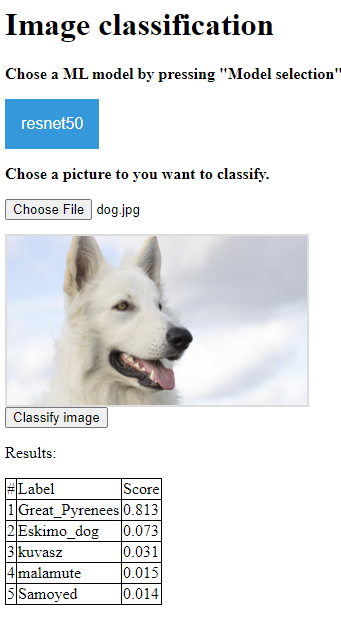
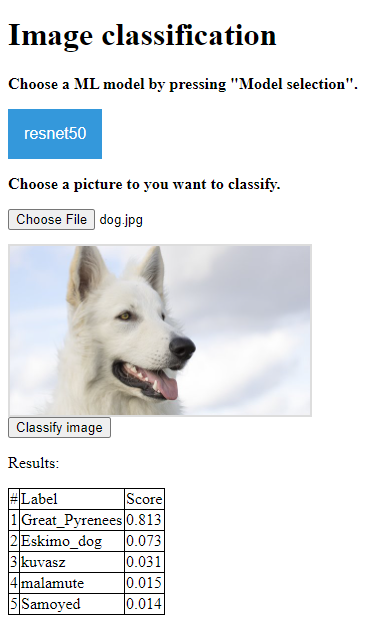
some typo

Changed region(s): [[0.0, 0.0, 1.0, 0.9854], [0.5865, 0.4003, 0.6158, 0.4311]]

diff --git a/src/frontend/index.html b/src/frontend/index.html
@@ -93,7 +93,7 @@
 </head>
 <body>
     <h1>Image classification</h1>
-    <p><b>Chose a ML model by pressing "Model selection".</b></p>
+    <p><b>Choose a ML model by pressing "Model selection".</b></p>
 
     <!-- Model selection -->
     <div class="model_selection_dropdown">
@@ -103,7 +103,7 @@
     </div>
 
     <div class="image_upload_and_preview" id="imageUploadAndPreview">
-        <p><b>Chose a picture to you want to classify.</b></p>
+        <p><b>Choose a picture to you want to classify.</b></p>
     <!-- Image upload -->
         <input type="file" name="inputFile"id="inputFile">
         <div class="image_preview" id="imagePreview">
